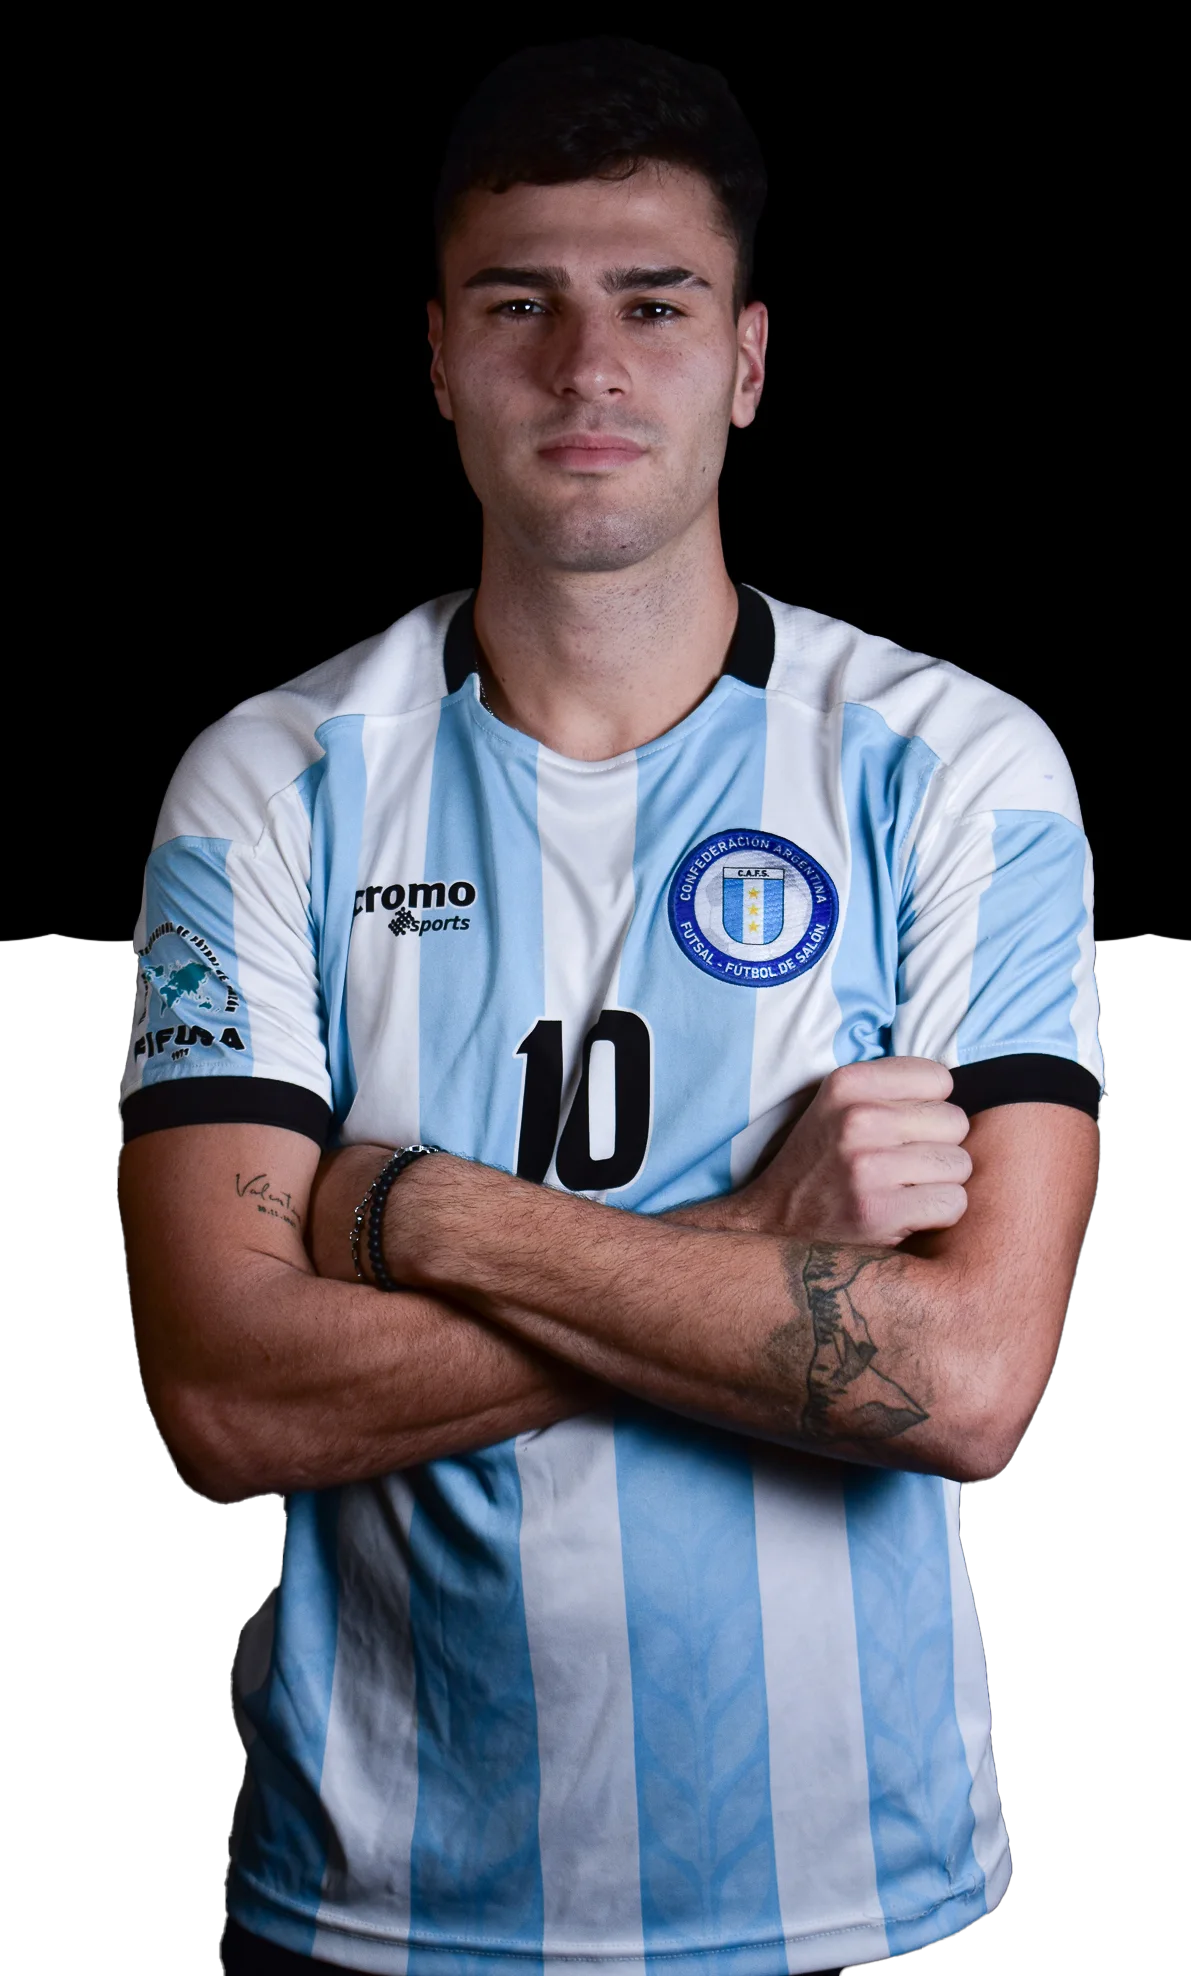
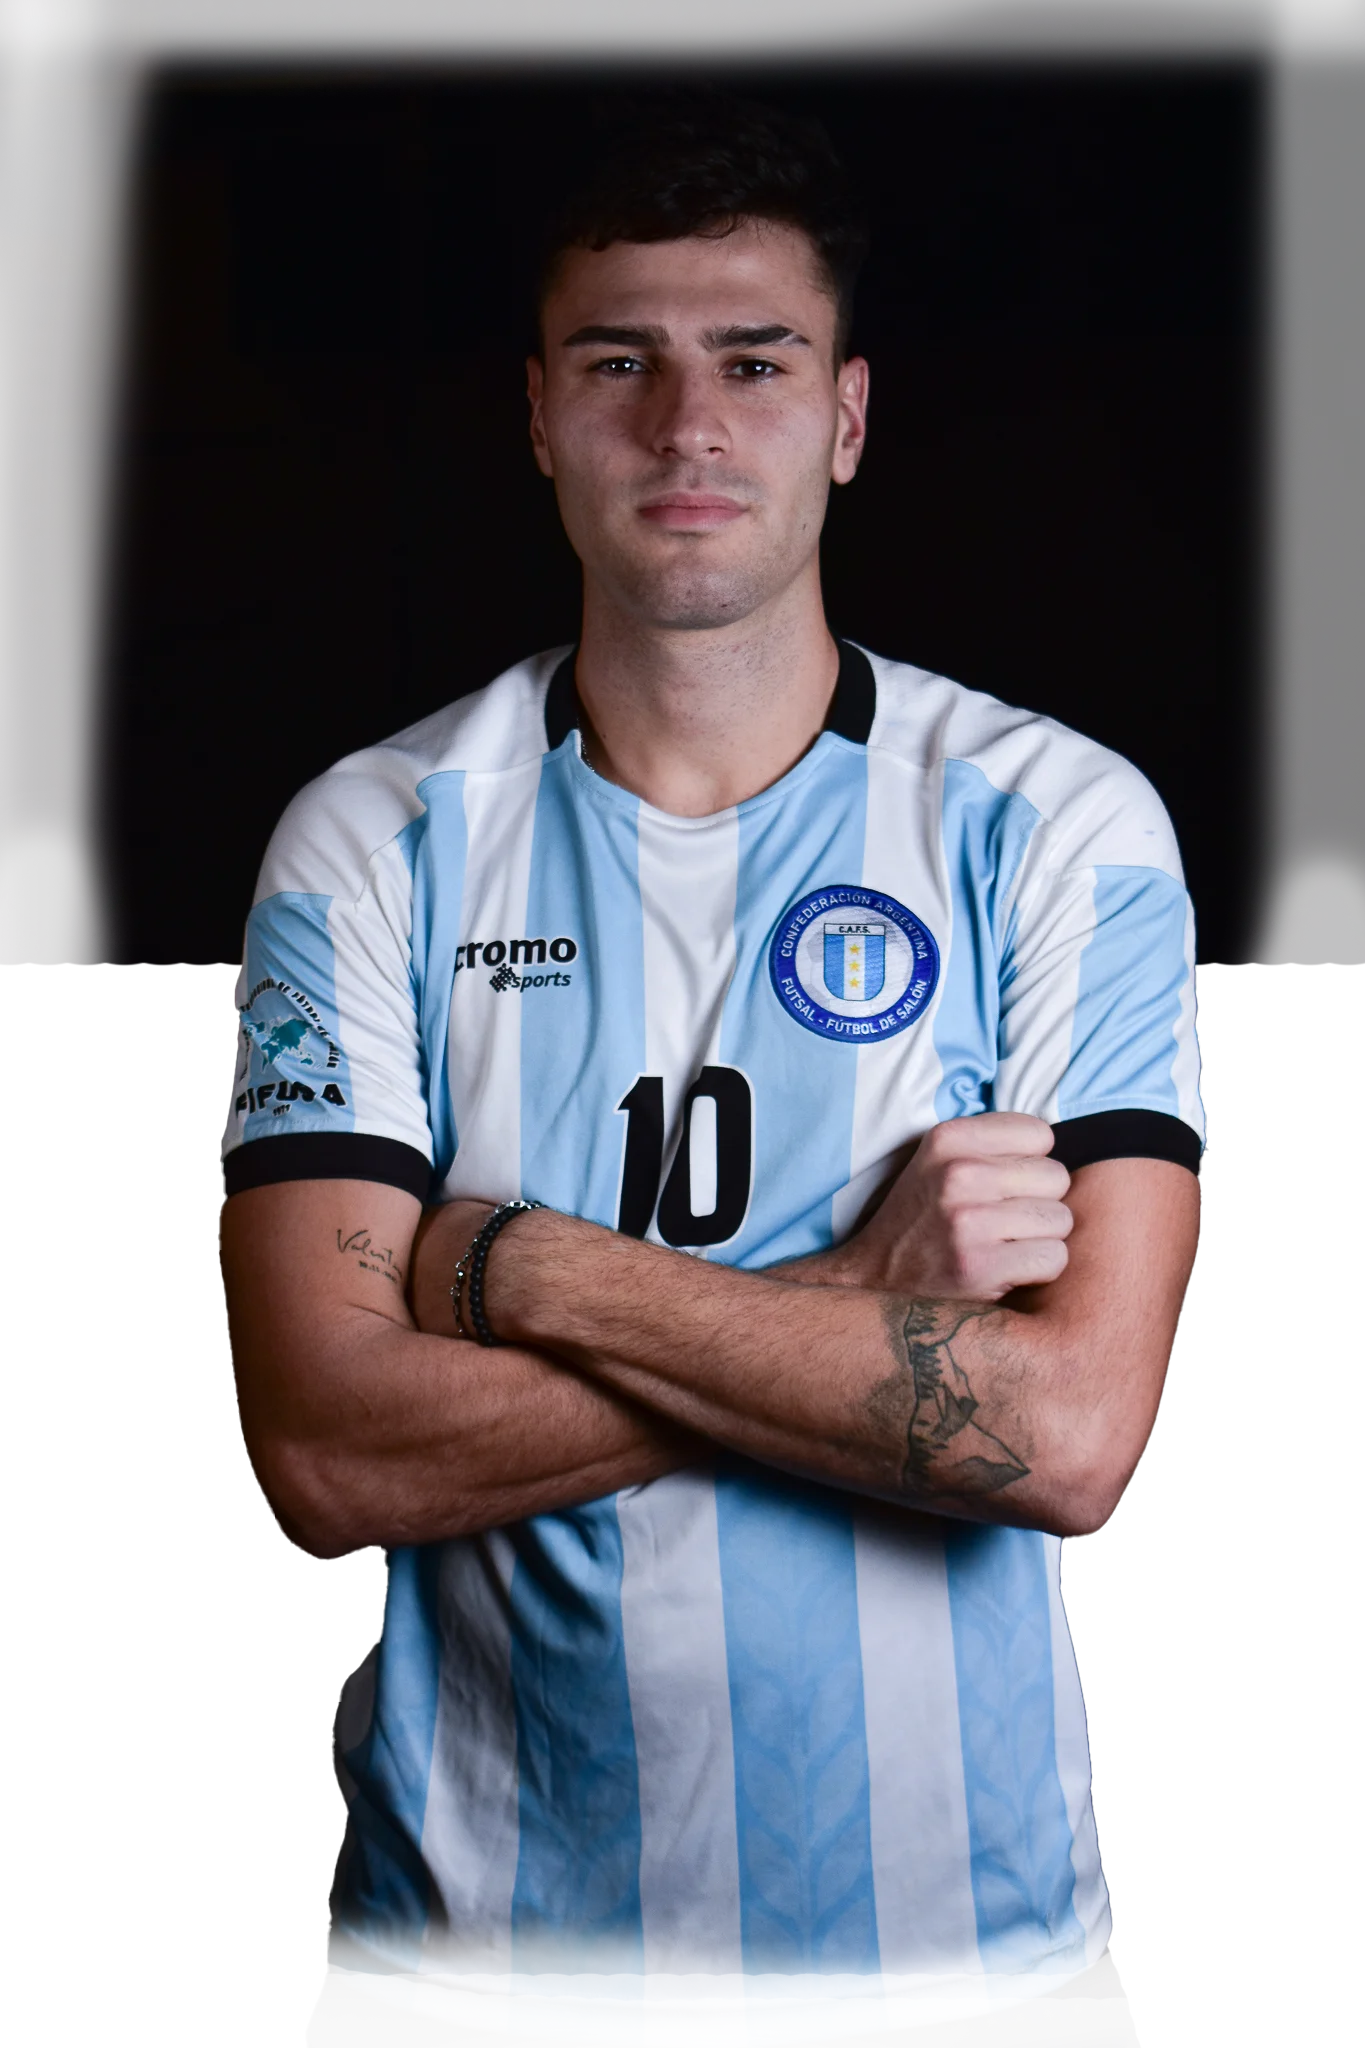
changeimgs

diff --git a/src/App.jsx b/src/App.jsx
@@ -4,7 +4,7 @@ import img3 from "/ESCUDO regatas.webp";
 import img4 from "/ESCUDO sanidad.webp";
 import namePlayer from "/namePlayer.webp";
 import imgHome from "/imgHome.webp";
-import imgHome2 from "/imghomesinfondo.webp";
+import imgHome2 from "/imgHome2.webp";
 import imgPlayer from "/imgPlayer.webp";
 import escudohome1 from "/bynarg.webp";
 import escudohome2 from "/bynsanidad.webp";
@@ -82,7 +82,7 @@ function App() {
             <img className="max-w-28 md:max-w-32" src={escudohome3} alt="" />
           </header>
           <picture className="z-10 w-full flex justify-center items-end md:absolute md:bottom-0 md:mx-auto">
-            <img  loading="lazy" className="img-home max-w-72 md:max-w-72 lg:max-w-80 lg:ml-44" src={imgHome2} alt="" />
+            <img  loading="lazy" className="img-home max-w-72 md:max-w-72 lg:max-w-80 lg:ml-44" src={imgHome} alt="" />
           </picture>
         </section>
 
@@ -175,7 +175,7 @@ function App() {
           <picture className="w-full flex justify-center items-center mb-8">
             <img loading="lazy" className="max-w-64 md:max-w-96" src={fotografia} alt="" />
           </picture>
-          <picture className="w-[95vw] mb-6 md:w-4/5 md:my-12">
+          <picture loading="lazy" className="w-[95vw] mb-6 md:w-4/5 md:my-12">
             <ImageGallery
               items={images}
               showPlayButton={false}
